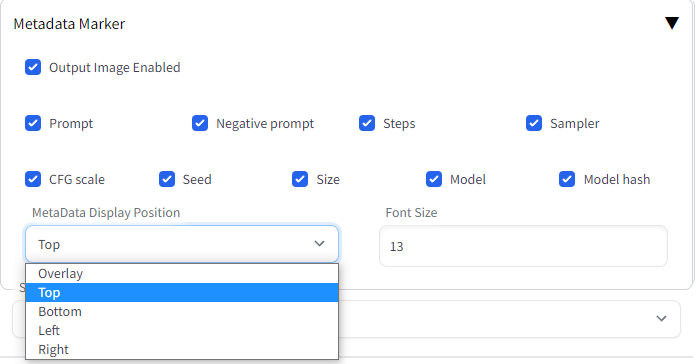
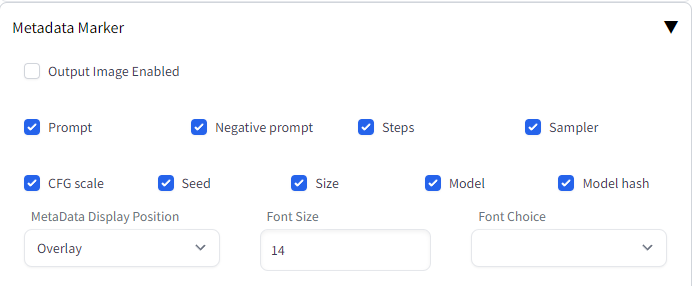
Added font selection
Added font selection

diff --git a/scripts/metadata_marker.py b/scripts/metadata_marker.py
@@ -12,7 +12,7 @@ import modules.shared as shared
 import png
 import io
 import numpy
-
+import matplotlib.font_manager
 
 class MetadataMarkerScript(scripts.Script):
 
@@ -76,11 +76,16 @@ class MetadataMarkerScript(scripts.Script):
             with gr.Row():
                 meta_data_display = gr.inputs.Dropdown(label="MetaData Display Position", choices=["Overlay", "Top", "Bottom", "Left", "Right"], default="Overlay")
                 font_size_input = gr.inputs.Textbox(lines=1, label='Font Size', default="")
-    
+
+
+                fonts_list = matplotlib.font_manager.findSystemFonts(fontpaths=None, fontext='ttf')
+                fonts_dict = {os.path.splitext(os.path.basename(font))[0]: font for font in fonts_list}
+                font_choice = gr.inputs.Dropdown(choices=sorted(list(fonts_dict.keys())), label='Font Choice')
+
         return [prompt_checkbox, negative_prompt_checkbox, steps_checkbox, 
                 sampler_checkbox, cfg_scale_checkbox, seed_checkbox, 
                 size_checkbox, model_checkbox, model_hash_checkbox, 
-                output_image_checkbox, meta_data_display, font_size_input]
+                output_image_checkbox, meta_data_display, font_size_input, font_choice]
     
 
 
@@ -93,7 +98,7 @@ class MetadataMarkerScript(scripts.Script):
     # The original function now calls the new functions for each task
     def postprocess_image(self, p, pp, prompt_checkbox, negative_prompt_checkbox, steps_checkbox, 
                           sampler_checkbox, cfg_scale_checkbox, seed_checkbox, size_checkbox, model_checkbox, model_hash_checkbox, output_image_checkbox, meta_data_display,
-                          font_size_input):
+                          font_size_input, font_choice):
     
         if not output_image_checkbox:
             return;
@@ -105,12 +110,16 @@ class MetadataMarkerScript(scripts.Script):
         
         draw = ImageDraw.Draw(image_copy)
         
-        font_path = self.get_font_path()
+        if not font_choice:
+            selected_font_path = self.get_font_path()
+        else:
+            fonts_list = matplotlib.font_manager.findSystemFonts(fontpaths=None, fontext='ttf')
+            fonts_dict = {os.path.splitext(os.path.basename(font))[0]: font for font in fonts_list}
+            selected_font_path = fonts_dict[font_choice]
+        
         imageSize = image_copy.width * image_copy.height
         fontSize = self.get_font_size(imageSize, font_size_input)
-
-        font = self.get_font(font_path, fontSize)
-        
+        font = self.get_font(selected_font_path, fontSize)
         text = self.construct_text(p, prompt_checkbox, negative_prompt_checkbox, steps_checkbox, 
                                    sampler_checkbox, cfg_scale_checkbox, seed_checkbox, size_checkbox, 
                                    model_checkbox, model_hash_checkbox, shared)

diff --git a/install.py b/install.py
@@ -10,3 +10,9 @@ if not launch.is_installed("pypng"):
 
 if not launch.is_installed("numpy"):
     launch.run_pip("install numpy", "requirements for metadata preservation")
+
+if not launch.is_installed("matplotlib"):
+    launch.run_pip("install matplotlib", "requirements for metadata preservation")
+    
+if not launch.is_installed("pillow"):
+    launch.run_pip("install pillow", "requirements for metadata preservation")
